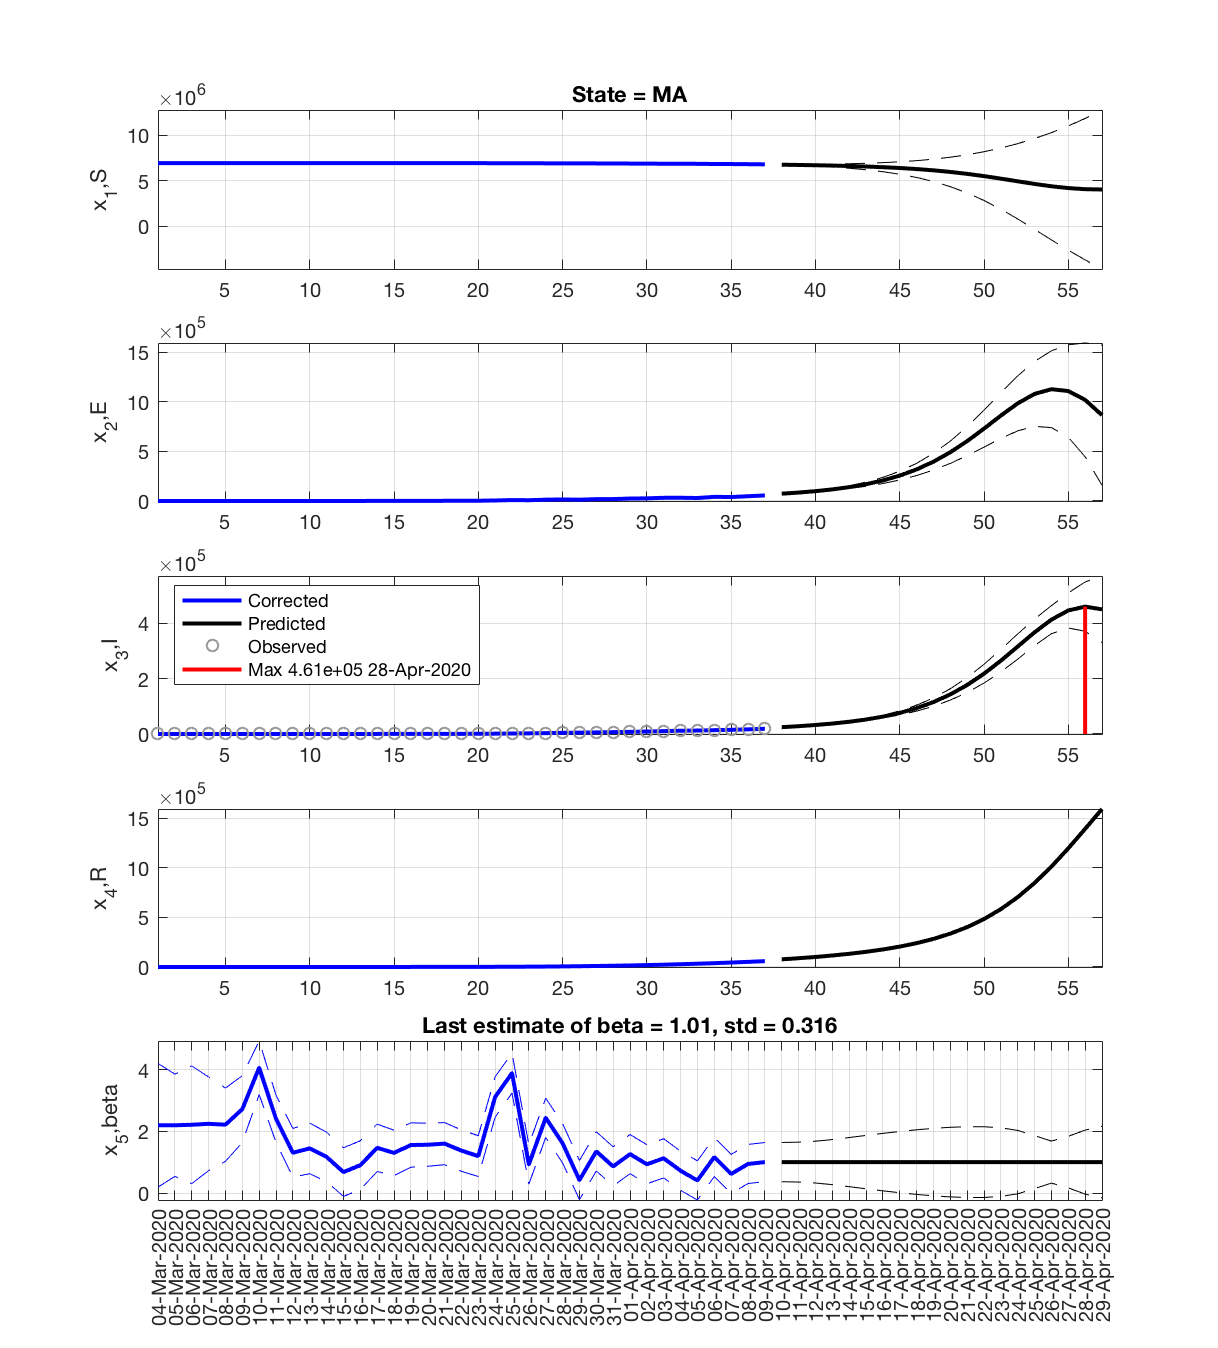
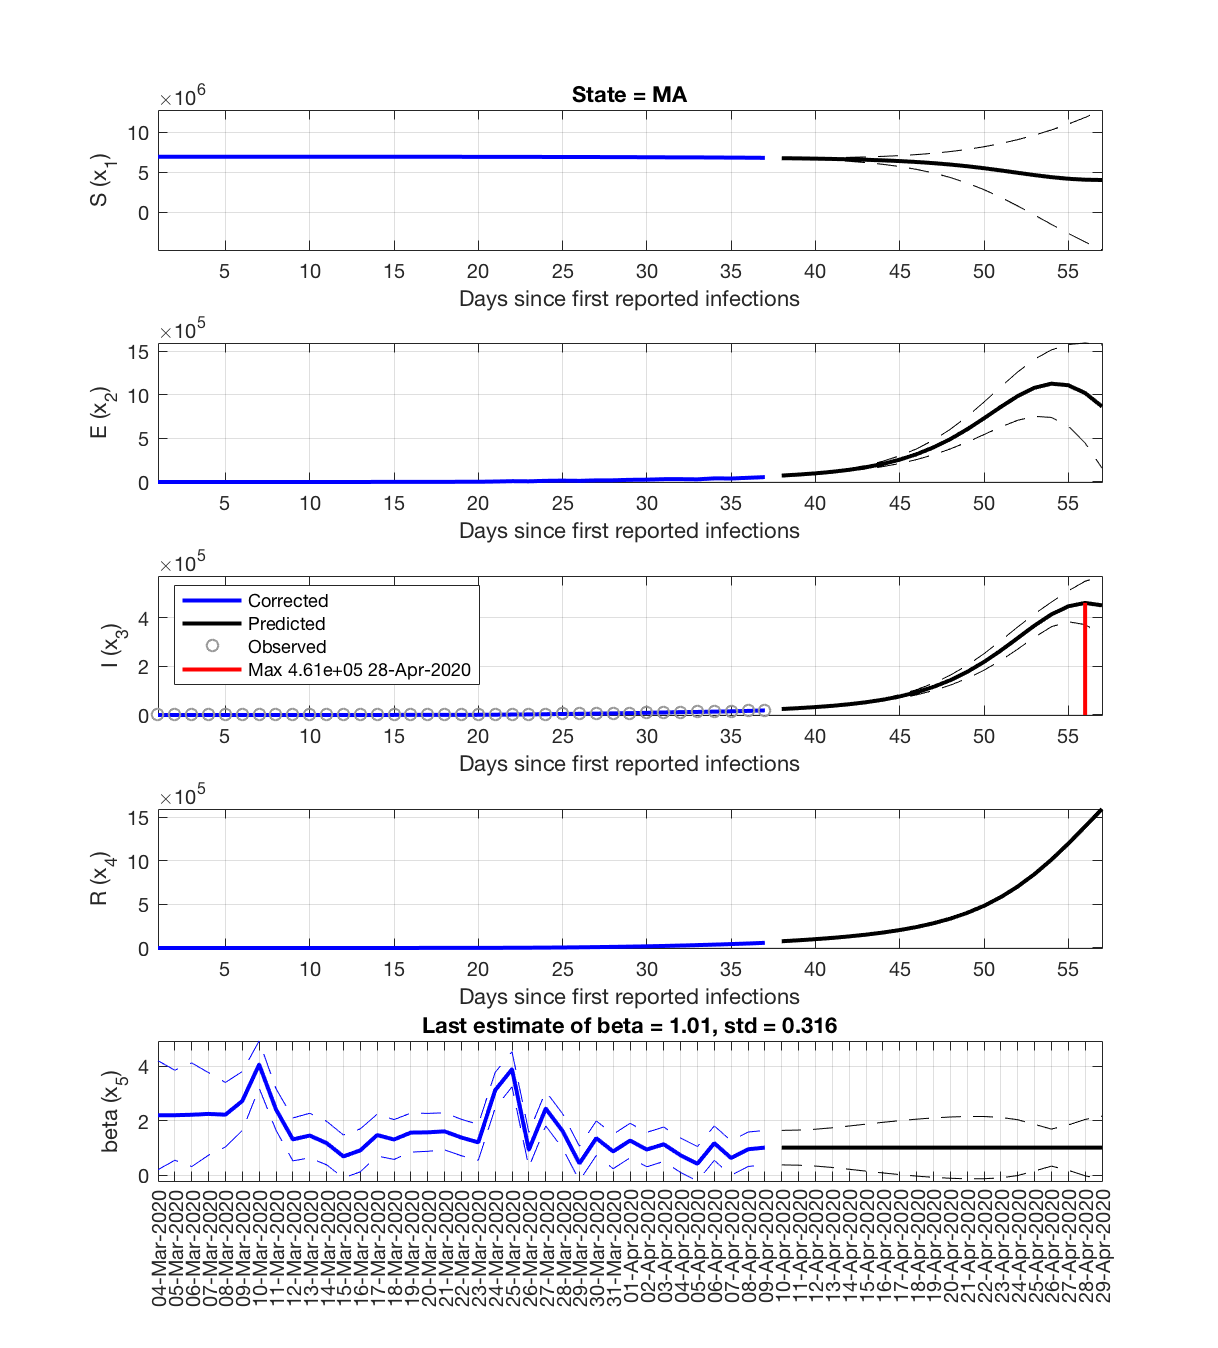
better axes labels

diff --git a/run_ukf_seir.m b/run_ukf_seir.m
@@ -73,7 +73,7 @@ end
 day_label_future = string(datetime(d(end,[3,1,2]),'Format','dd-MMM-yyyy')+days(1:future_days));
 
 %figure();
-labels = {'x_1,S'; 'x_2,E'; 'x_3,I'; 'x_4,R'; 'x_5,beta'};
+labels = {'S (x_1)'; 'E (x_2)'; 'I (x_3)'; 'R (x_4)'; 'beta (x_5)'};
 for k=1:5
     subplot(5,1,k);
     plot(timeVector,xCorrectedUKF(:,k), 'b', 'LineWidth', 2);
@@ -87,6 +87,7 @@ for k=1:5
     ylabel(labels{k});
     axis tight
     grid on
+    xlabel('Days since first reported infections')
 end
 subplot(5,1,1); title(['State = ' state])
 subplot(5,1,3)
@@ -105,4 +106,4 @@ set(gca, 'XTickLabel', [day_label,day_label_future])
 xtickangle(90)
 subplot(5,1,5)
 title(['Last estimate of beta = ' num2str(xCorrectedUKF(end,5),3) ', std = ' num2str(squeeze(xCorrectedstd(end,5,5)),3)])
-
+xlabel('')
